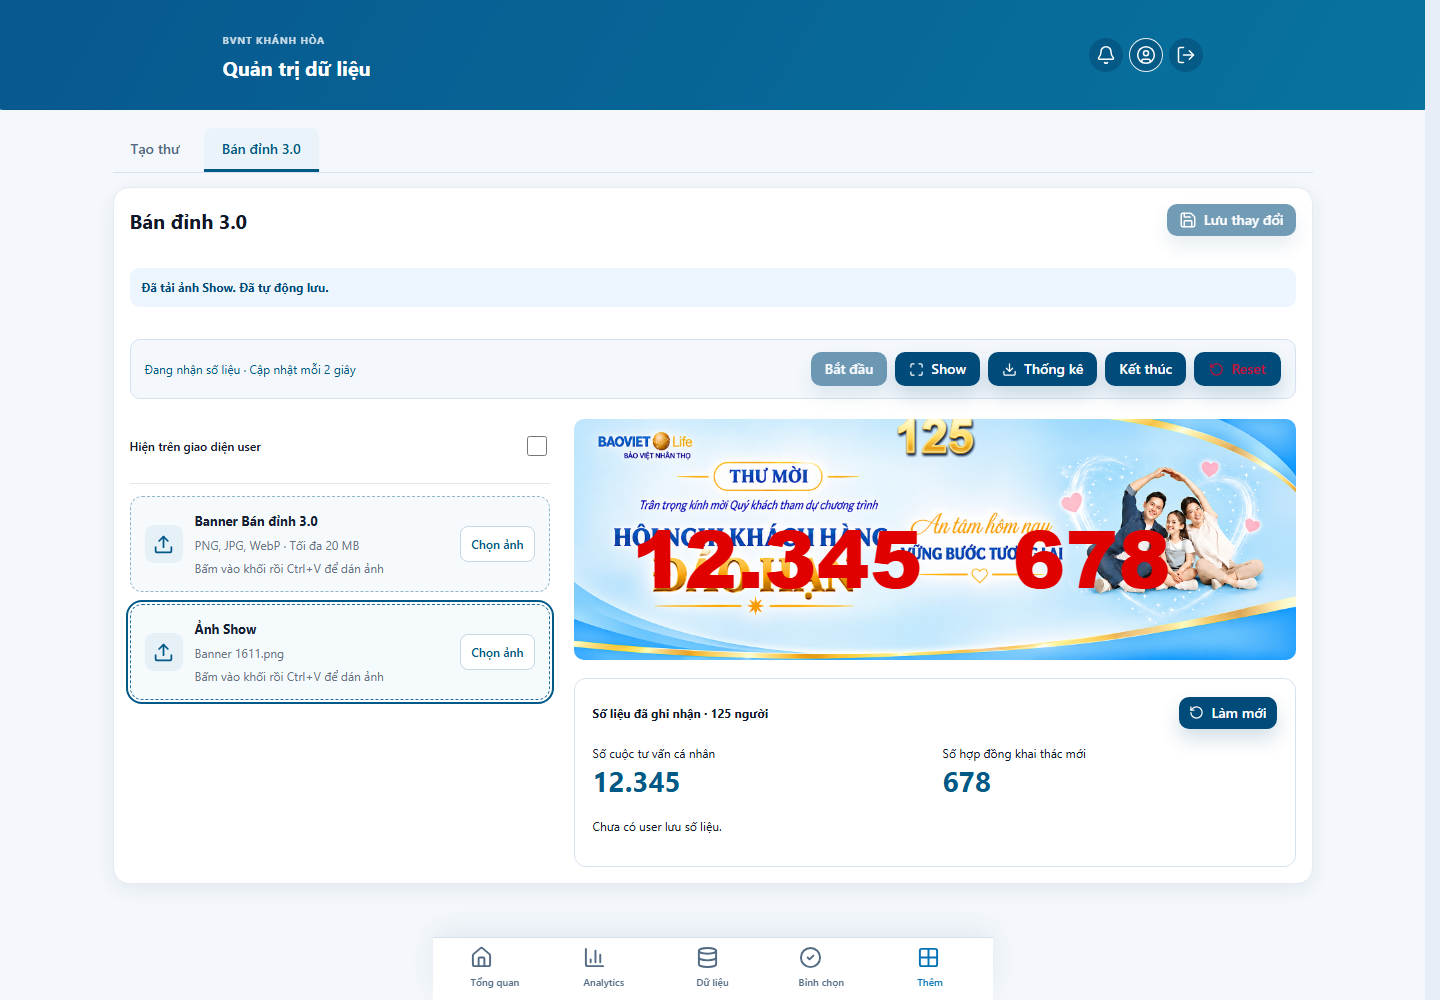
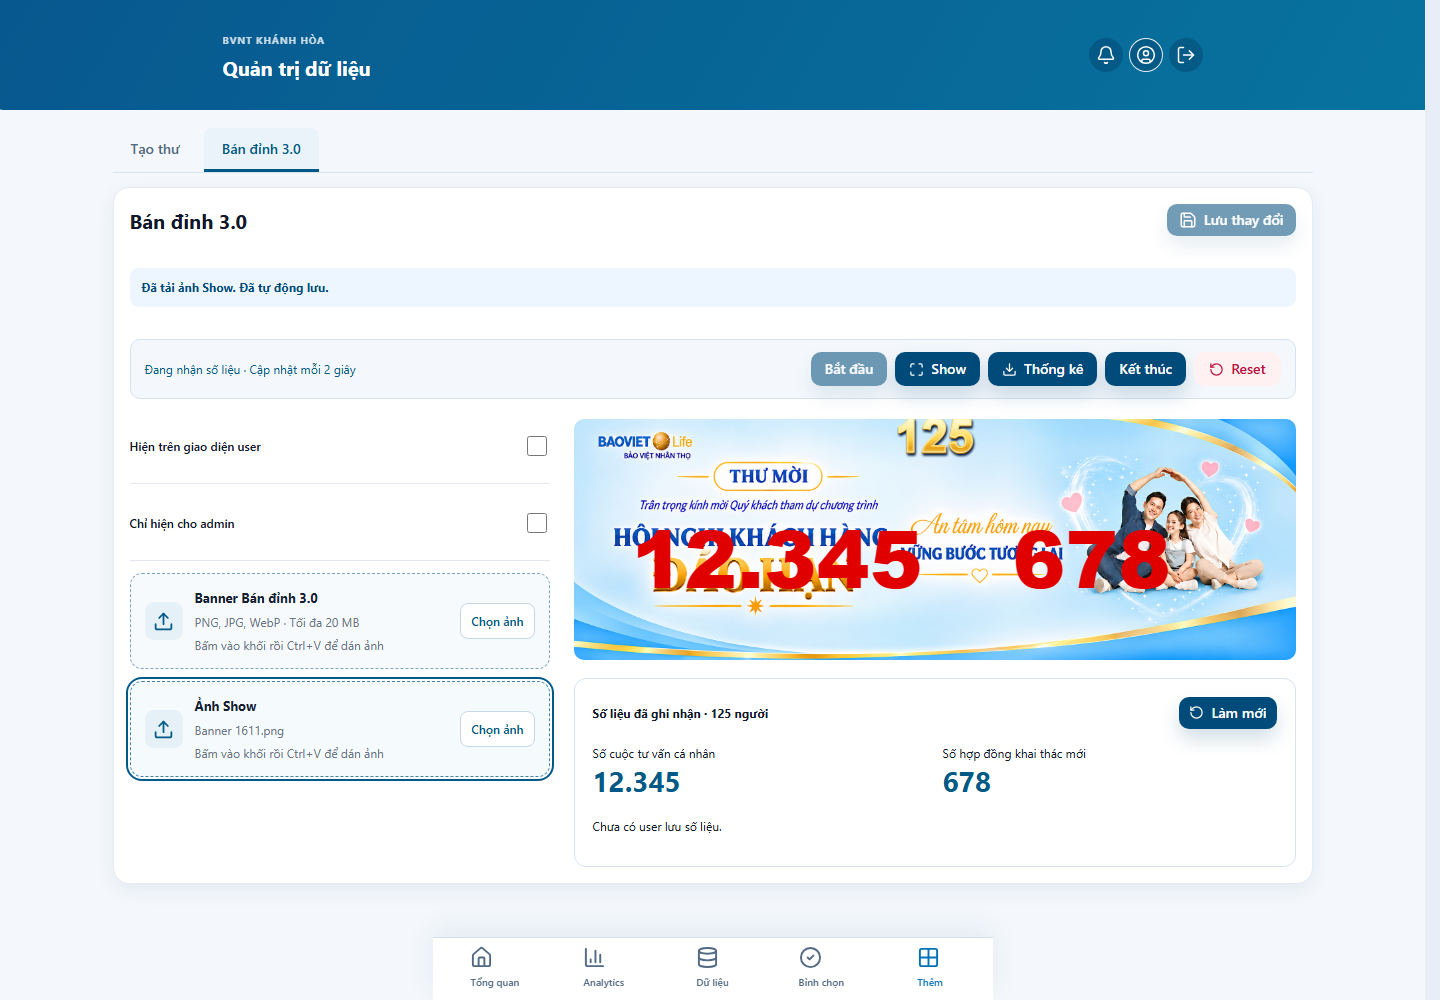
Cap nhat

Changed region(s): [[0.0938, 0.496, 0.4062, 0.775], [0.8125, 0.341, 0.9062, 0.403], [0.3125, 0.527, 0.375, 0.558]]

diff --git a/scripts/test-ban-dinh.ts b/scripts/test-ban-dinh.ts
@@ -10,6 +10,7 @@ import { GET as adminReports } from "../app/api/admin/ban-dinh-reports/route";
 import { ADMIN_COOKIE, adminSessionToken } from "../lib/admin-auth";
 import { PUT as changeSession } from "../app/api/admin/ban-dinh-session/route";
 import { POST as resetStatistics } from "../app/api/admin/ban-dinh-reset/route";
+import { GET as publicSettings } from "../app/api/ban-dinh-settings/route";
 
 async function main() {
   assert.ok(validBanDinhCounts({ consultations: 0, contracts: 0 }));
@@ -22,12 +23,13 @@ async function main() {
   const originalCreate = client.storage.createBucket;
   const objects = new Map<string, string>();
   let visible = true;
+  let adminOnly = false;
   client.from = () => ({ select: () => ({ eq: (_: string, code: string) => ({ single: async () => ({ data: { advisor_code: code, is_active: true }, error: null }) }), in: async (_: string, codes: string[]) => ({ data: codes.map(code => ({ advisor_code: code, full_name: `Name ${code}` })), error: null }) }) });
   client.storage.createBucket = async (_name: string, options: any) => { assert.equal(options.public, false); return { error: null }; };
   client.storage.from = (bucket: string) => ({
     list: async (prefix: string, options: { offset: number; limit: number }) => ({ data: [...objects.keys()].filter(key => key.startsWith(`${bucket}/${prefix}/`)).sort().slice(options.offset, options.offset + options.limit).map(key => ({ name: key.split('/').at(-1) })), error: null }),
     download: async (path: string) => {
-      if (path === "data/ban-dinh-settings.json") return { data: new Blob([JSON.stringify({ banner: "/api/archive/file?path=uploads%2Finvitations%2Ftest.png", visible })]), error: null };
+      if (path === "data/ban-dinh-settings.json") return { data: new Blob([JSON.stringify({ banner: "/api/archive/file?path=uploads%2Finvitations%2Ftest.png", visible, adminOnly })]), error: null };
       const text = objects.get(`${bucket}/${path}`);
       return text ? { data: new Blob([text]), error: null } : { data: null, error: { statusCode: "404", message: "Object not found" } };
     },
@@ -81,6 +83,15 @@ async function main() {
     await changeSession(sessionRequest("start"));
     assert.equal((await PUT(request("PUT", "TEST_A", { consultations: 3, contracts: 2 }))).status, 200);
     assert.deepEqual((await (await adminReports(adminRequest())).json()).totals, { users: 1, consultations: 3, contracts: 2 });
+    adminOnly = true;
+    assert.equal((await (await publicSettings(request("GET", "TEST_A"))).json()).visible, false);
+    assert.equal((await (await publicSettings(request("GET"))).json()).banner, "");
+    assert.equal((await (await publicSettings(request("GET", "ADMIN"))).json()).visible, true);
+    assert.equal((await GET(request("GET", "TEST_A"))).status, 403);
+    assert.equal((await PUT(request("PUT", "TEST_B", { consultations: 1, contracts: 1 }))).status, 403);
+    assert.equal((await GET(request("GET", "ADMIN"))).status, 200);
+    adminOnly = false;
+    assert.equal((await GET(request("GET", "TEST_A"))).status, 200);
     visible = false;
     assert.equal((await PUT(request("PUT", "TEST_A", { consultations: 1, contracts: 1 }))).status, 403);
     console.log("Bán đỉnh: validation, authentication, private storage, latest overwrite, per-user isolation and hidden-state checks passed (mock storage).");
